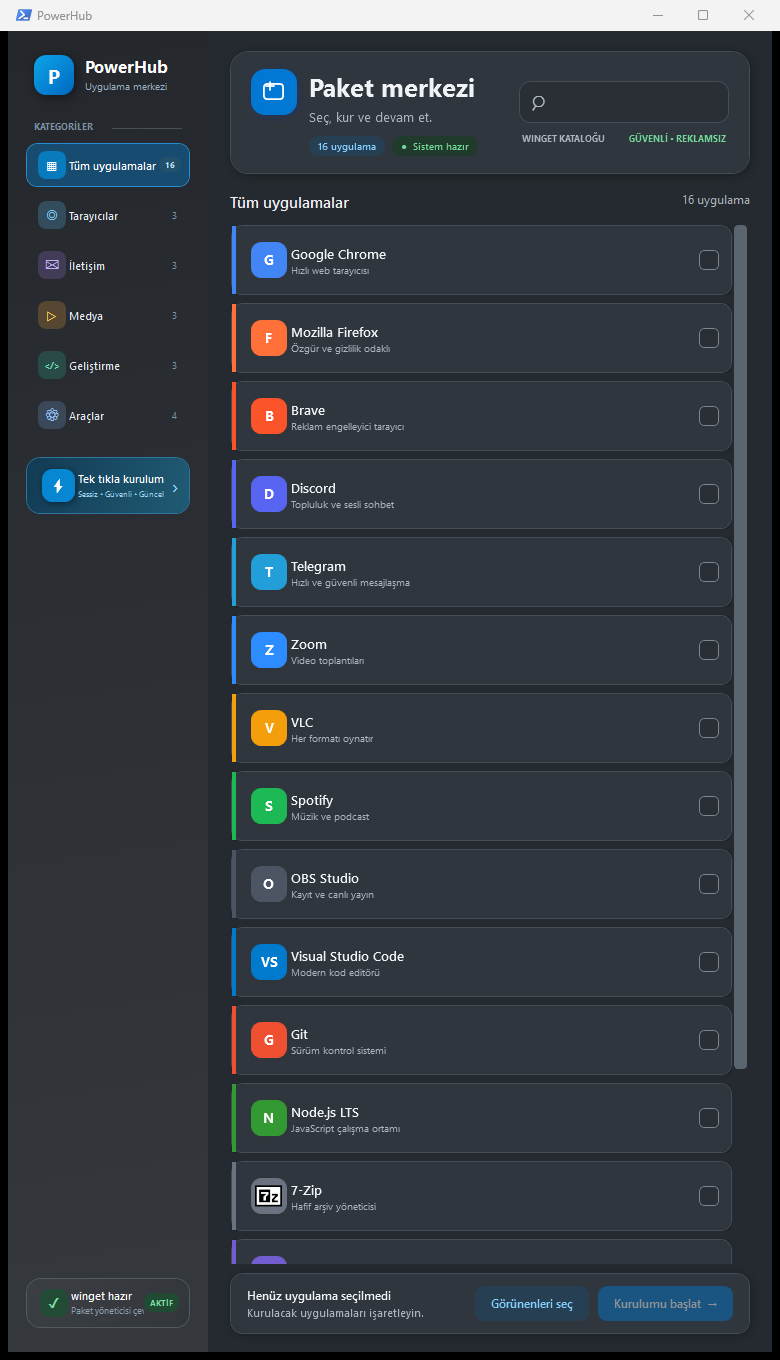
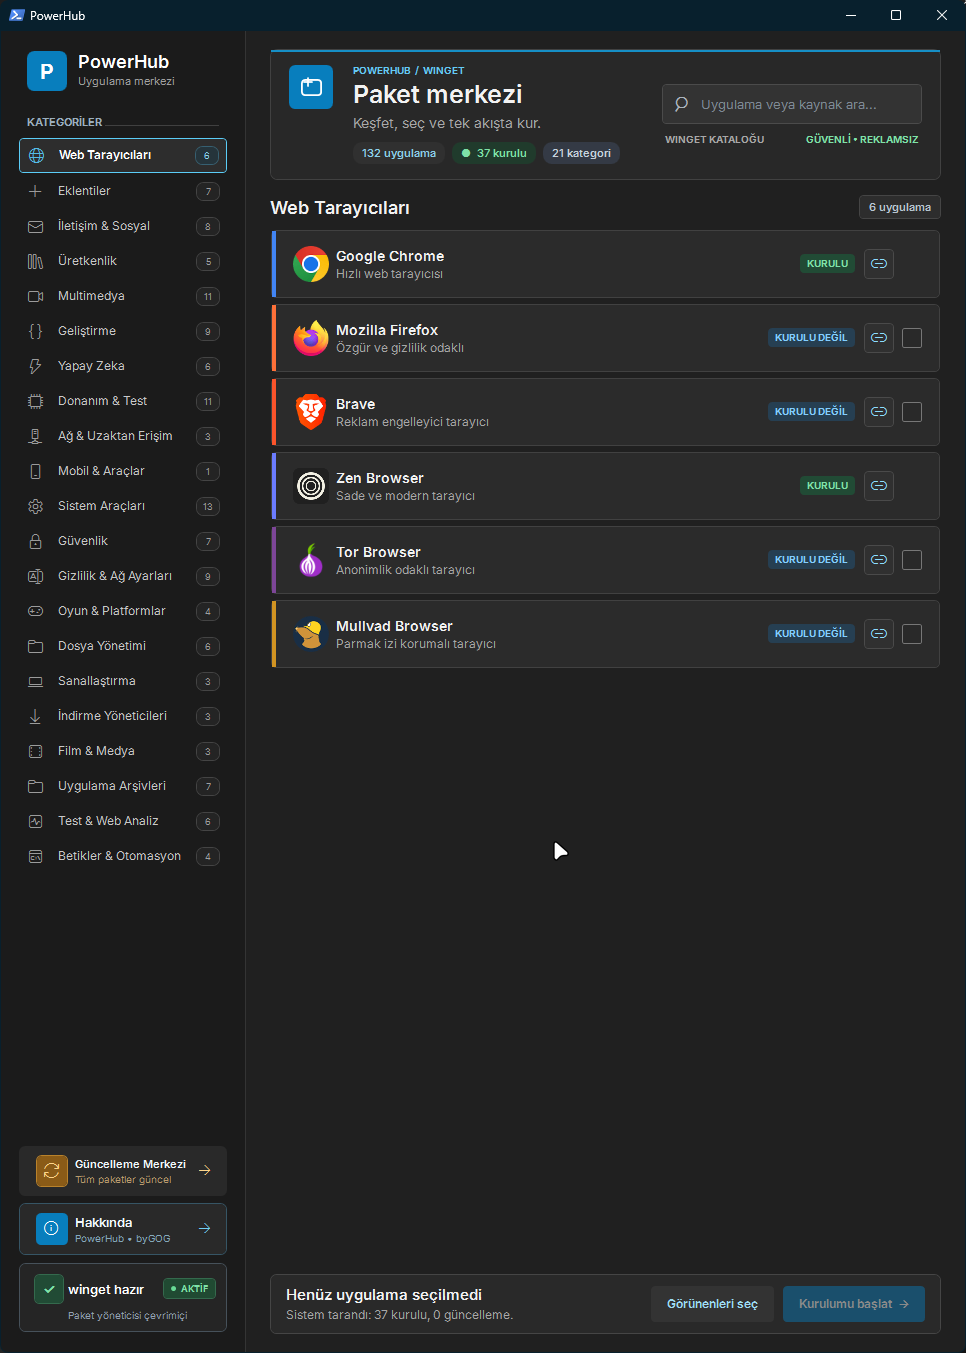
Modernize bilingual project README

diff --git a/README.md b/README.md
@@ -1,103 +1,259 @@
+<div align="center">
+
 # PowerHub
 
-[Türkçe](#türkçe) · [English](#english)
+**Windows uygulamalarını keşfet, denetle, toplu kur ve güncel tut.**
 
-<p align="center">
-  <img src="assets/powerhub-preview.png" alt="PowerHub application preview" width="100%">
-</p>
+[![Windows](https://img.shields.io/badge/Windows-10%20%7C%2011-0078D4?logo=windows&logoColor=white)](https://www.microsoft.com/windows)
+[![PowerShell](https://img.shields.io/badge/PowerShell-5.1%20%7C%207-5391FE?logo=powershell&logoColor=white)](https://learn.microsoft.com/powershell/)
+[![WinGet](https://img.shields.io/badge/WinGet-powered-00A4EF)](https://learn.microsoft.com/windows/package-manager/winget/)
+[![Last commit](https://img.shields.io/github/last-commit/byGOG/PowerHub?color=18A7E0)](https://github.com/byGOG/PowerHub/commits/main)
+[![Repo size](https://img.shields.io/github/repo-size/byGOG/PowerHub?color=765DE8)](https://github.com/byGOG/PowerHub)
+
+[Türkçe](#türkçe) · [English](#english) · [Web sitesi](https://bygog.github.io/) · [Sorun bildir](https://github.com/byGOG/PowerHub/issues)
+
+</div>
+
+![PowerHub uygulama önizlemesi](assets/powerhub-preview.png)
+
+---
 
 ## Türkçe
 
-PowerHub, Windows uygulamalarını seçip `winget` üzerinden toplu ve sessiz biçimde kurmak için hazırlanmış modern bir PowerShell/WPF arayüzüdür.
+PowerHub, Windows uygulamalarını tek merkezden yönetmek için geliştirilmiş açık kaynak bir PowerShell/WPF arayüzüdür. WinGet kataloğunu modern bir masaüstü deneyimiyle birleştirir; uygulama keşfi, kurulum, sistem taraması ve güncelleme işlemlerini sadeleştirir.
 
-- 21 kategoride 132 güvenli uygulama ve web kaynağı
-- Fluent 2 esintili katmanlı koyu arayüz, vektör ikonlar ve erişilebilir kontroller
-- Tüm uygulamalar için önbelleğe alınan marka logoları
-- Canlı arama, kategori filtreleme, kaynak rozetleri ve kartın tamamından seçim
-- WEB kaynaklarında doğrudan site açma; web kartları kurulum seçimine dahil edilmez
-- Kurulabilir uygulama kartlarında seçimi değiştirmeden açılan resmî site düğmesi
-- Klavye kısayolları: `Ctrl+F` ara, `Ctrl+A` görünenleri seç, `Esc` temizle, `Enter` kurulumu başlat
-- Canlı terminal günlükleri ve kurulum ilerlemesi
-- Winget eksikse durum kartından Microsoft Store gerektirmeyen otomatik kurulum
-- Windows Sandbox için mimariye uygun WinGet bağımlılıkları ve SHA-256 doğrulaması
-- Winget paketi bulunmayan seçili araçlar için resmî indirme sayfası
+### Hızlı başlangıç
 
-### Hızlı çalıştırma
-
-PowerShell'e aşağıdaki komutu yapıştırın:
+PowerShell'i açın ve şu komutu çalıştırın:
 
 ```powershell
 irm https://bygog.github.io/PowerHub/install.ps1 | iex
 ```
 
-Başlatıcı, güncel `PowerHub.ps1` dosyasını `%LOCALAPPDATA%\PowerHub` klasörüne indirir ve Windows PowerShell'i STA modunda kullanarak arayüzü açar. Her çalıştırmada en güncel sürüm alınır.
+Başlatıcı en güncel `PowerHub.ps1` dosyasını `%LOCALAPPDATA%\PowerHub` dizinine indirir ve uygulamayı STA modunda açar. Sisteminizde WinGet yoksa PowerHub durum kartı üzerinden Microsoft Store gerektirmeyen kurulumu başlatabilir.
+
+> [!IMPORTANT]
+> İnternetten indirilen betikleri çalıştırmadan önce incelemek iyi bir güvenlik alışkanlığıdır. Aşağıdaki [Güvenlik](#güvenlik) bölümüne bakın.
+
+### Öne çıkanlar
+
+| Alan | PowerHub ne sunuyor? |
+| --- | --- |
+| **Modern arayüz** | Windows 11 ve Fluent tasarım diline uyumlu, net ve erişilebilir koyu WPF arayüzü |
+| **Uygulama kataloğu** | 21 kategoride 132 uygulama ve güvenilir web kaynağı |
+| **Akıllı sistem taraması** | Kurulu uygulamaları ve bekleyen WinGet güncellemelerini arka planda denetleme |
+| **Güncelleme Merkezi** | Sürüm karşılaştırması, tekli veya toplu seçim ve canlı güncelleme ilerlemesi |
+| **Toplu kurulum** | Seçilen paketleri sessiz ve sıralı biçimde kurma; sonuçları terminalde izleme |
+| **Resmî kaynaklar** | Uygulama kartından resmî siteye doğrudan erişim; web kaynaklarını kurulumdan ayırma |
+| **Sandbox desteği** | Boş Windows Sandbox ortamında WinGet ve gerekli bağımlılıkları hazırlama |
+| **Marka logoları** | Önbelleğe alınan uygulama logoları ve ağ sorunu durumunda güvenli yedek görünüm |
+
+### Nasıl çalışır?
+
+1. PowerHub açılışta WinGet durumunu ve kurulu paketleri denetler.
+2. Arama veya kategori menüsüyle istediğiniz uygulamaya odaklanırsınız.
+3. Uygulamaları seçer, resmî sitelerini açar ya da toplu kurulumu başlatırsınız.
+4. Güncelleme Merkezi, mevcut ve yeni sürümleri karşılaştırarak seçili paketleri yükseltir.
+5. Tüm komutlar ve sonuçlar görünür terminal günlüğüne yazılır.
+
+### Klavye kısayolları
+
+| Kısayol | İşlev |
+| --- | --- |
+| <kbd>Ctrl</kbd> + <kbd>F</kbd> | Arama alanına odaklan |
+| <kbd>Ctrl</kbd> + <kbd>A</kbd> | Görünen kurulabilir uygulamaları seç / seçimi kaldır |
+| <kbd>Enter</kbd> | Seçilen uygulamaların kurulumunu başlat |
+| <kbd>Esc</kbd> | Aramayı, seçimi veya açık pencereyi temizle |
+
+### Kurulum seçenekleri
+
+#### Tek komutla
+
+```powershell
+irm https://bygog.github.io/PowerHub/install.ps1 | iex
+```
+
+#### Önce inceleyerek
+
+```powershell
+$installer = irm https://bygog.github.io/PowerHub/install.ps1
+$installer
+```
+
+İçeriği inceledikten sonra:
+
+```powershell
+$installer | iex
+```
+
+#### Elle çalıştırma
+
+```powershell
+git clone https://github.com/byGOG/PowerHub.git
+cd PowerHub
+powershell -NoProfile -ExecutionPolicy Bypass -File .\PowerHub.ps1
+```
 
 ### Gereksinimler
 
 - Windows 10 veya Windows 11
 - Windows PowerShell 5.1 ya da PowerShell 7
-- Microsoft App Installer ile gelen `winget`
 - İnternet bağlantısı
+- Paket kurulumları için yönetici izni gerekebilir
+- WinGet önerilir; eksikse PowerHub içinden Store bağımsız kurulum yapılabilir
 
 ### Güvenlik
 
-İnternetten alınan bir betiği çalıştırmadan önce içeriğini incelemek için:
+- Kurulum komutları paket kimliğini tam eşleştiren `--exact` seçeneğini kullanır.
+- Paket ve kaynak sözleşmeleri WinGet üzerinden açık biçimde kabul edilir.
+- WinGet bağımlılıkları resmî Microsoft/GitHub kaynaklarından alınır ve desteklenen dosyalarda SHA-256 doğrulaması uygulanır.
+- PowerHub kalıcı Execution Policy değişikliği yapmaz; başlatıcı yalnızca kendi süreç kapsamını kullanır.
+- Kurulum günlükleri terminalde görünür; başarısız paketler ayrıca raporlanır.
 
-```powershell
-irm https://bygog.github.io/PowerHub/install.ps1
-```
-
-Ana uygulama dosyasını doğrudan görüntülemek için:
+Ana uygulama dosyasını doğrudan inceleyebilirsiniz:
 
 ```text
 https://bygog.github.io/PowerHub/PowerHub.ps1
 ```
+
+### Proje yapısı
+
+```text
+PowerHub/
+├─ PowerHub.ps1          # WPF arayüzü, katalog ve kurulum motoru
+├─ install.ps1           # Hafif çevrimiçi başlatıcı
+├─ logos.json            # Uygulama logo kataloğu
+├─ assets/               # README görselleri
+└─ .nojekyll             # GitHub Pages yapılandırması
+```
+
+### Katkıda bulunma
+
+Hata raporu, uygulama önerisi veya geliştirme fikri için [issue açabilirsiniz](https://github.com/byGOG/PowerHub/issues). Değişiklik göndermeden önce mevcut işlevleri koruduğunuzdan ve PowerShell 5.1 uyumluluğunu bozmadığınızdan emin olun.
 
 ---
 
 ## English
 
-PowerHub is a modern PowerShell/WPF interface for selecting and silently installing multiple Windows applications through `winget`.
-
-- 132 safe applications and web resources across 21 categories
-- Fluent 2-inspired layered dark interface, vector icons, and accessible controls
-- Cached brand logos for every application
-- Live search, category filtering, source badges, and full-card selection
-- Direct site launching for WEB resources; web cards are excluded from installation selection
-- Official website button on installable app cards without changing selection
-- Keyboard shortcuts: `Ctrl+F` search, `Ctrl+A` select visible, `Esc` clear, `Enter` install
-- Live terminal logs and installation progress
-- Store-independent App Installer setup from the status card when winget is missing
-- Architecture-aware WinGet dependencies and SHA-256 verification for Windows Sandbox
-- Official download pages for selected tools not packaged by winget
+PowerHub is an open-source PowerShell/WPF interface for managing Windows applications from one place. It combines the WinGet catalog with a modern desktop experience and streamlines discovery, installation, system scanning, and package updates.
 
 ### Quick start
 
-Paste the following command into PowerShell:
+Open PowerShell and run:
 
 ```powershell
 irm https://bygog.github.io/PowerHub/install.ps1 | iex
 ```
 
-The bootstrapper downloads the latest `PowerHub.ps1` to `%LOCALAPPDATA%\PowerHub` and launches the interface with Windows PowerShell in STA mode. It retrieves the latest version on every run.
+The bootstrapper downloads the latest `PowerHub.ps1` to `%LOCALAPPDATA%\PowerHub` and launches it in STA mode. If WinGet is unavailable, PowerHub can install its Store-independent dependencies from the status card.
+
+> [!IMPORTANT]
+> Review remote scripts before executing them. See the [Security](#security) section for an inspection-first workflow.
+
+### Highlights
+
+| Area | What PowerHub provides |
+| --- | --- |
+| **Modern interface** | A clear, accessible dark WPF interface inspired by Windows 11 and Fluent design |
+| **Application catalog** | 132 applications and trusted web resources across 21 categories |
+| **Smart system scan** | Background detection of installed applications and pending WinGet updates |
+| **Update Center** | Version comparison, individual or bulk selection, and live update progress |
+| **Bulk installation** | Silent sequential installation with visible terminal results |
+| **Official sources** | Direct access to official sites while keeping web resources out of install queues |
+| **Sandbox support** | Store-independent WinGet and dependency setup for clean Windows Sandbox sessions |
+| **Brand assets** | Cached application logos with a safe fallback when the network is unavailable |
+
+### Workflow
+
+1. PowerHub checks WinGet, installed packages, and available updates on startup.
+2. Search or category navigation focuses the catalog on what you need.
+3. Select applications, open official websites, or start a bulk installation.
+4. Update Center compares installed and available versions and upgrades selected packages.
+5. Commands and results remain visible in the terminal log.
+
+### Keyboard shortcuts
+
+| Shortcut | Action |
+| --- | --- |
+| <kbd>Ctrl</kbd> + <kbd>F</kbd> | Focus search |
+| <kbd>Ctrl</kbd> + <kbd>A</kbd> | Toggle all visible installable applications |
+| <kbd>Enter</kbd> | Install selected applications |
+| <kbd>Esc</kbd> | Clear search, selection, or the open dialog |
+
+### Installation options
+
+#### One command
+
+```powershell
+irm https://bygog.github.io/PowerHub/install.ps1 | iex
+```
+
+#### Inspect first
+
+```powershell
+$installer = irm https://bygog.github.io/PowerHub/install.ps1
+$installer
+```
+
+After reviewing the content:
+
+```powershell
+$installer | iex
+```
+
+#### Manual launch
+
+```powershell
+git clone https://github.com/byGOG/PowerHub.git
+cd PowerHub
+powershell -NoProfile -ExecutionPolicy Bypass -File .\PowerHub.ps1
+```
 
 ### Requirements
 
 - Windows 10 or Windows 11
 - Windows PowerShell 5.1 or PowerShell 7
-- `winget`, included with Microsoft App Installer
-- An internet connection
+- Internet access
+- Administrator approval may be required for package installation
+- WinGet is recommended; PowerHub can provision it without Microsoft Store when missing
 
 ### Security
 
-To inspect the remote bootstrapper before running it:
+- Installation commands use `--exact` package matching.
+- Package and source agreements are explicitly handled through WinGet.
+- WinGet dependencies come from official Microsoft/GitHub sources, with SHA-256 verification where supported.
+- PowerHub does not make a permanent Execution Policy change; the launcher uses process scope only.
+- Terminal logs remain visible and failed packages are reported separately.
 
-```powershell
-irm https://bygog.github.io/PowerHub/install.ps1
-```
-
-To view the main application script directly:
+Inspect the main application directly:
 
 ```text
 https://bygog.github.io/PowerHub/PowerHub.ps1
 ```
+
+### Project structure
+
+```text
+PowerHub/
+├─ PowerHub.ps1          # WPF interface, catalog, and installation engine
+├─ install.ps1           # Lightweight online bootstrapper
+├─ logos.json            # Application logo catalog
+├─ assets/               # README media
+└─ .nojekyll             # GitHub Pages configuration
+```
+
+### Contributing
+
+Use [GitHub Issues](https://github.com/byGOG/PowerHub/issues) for bug reports, application requests, and improvement ideas. Please preserve existing behavior and Windows PowerShell 5.1 compatibility when proposing changes.
+
+---
+
+<div align="center">
+
+PowerHub is maintained by [byGOG](https://bygog.github.io/).
+
+*Sordum.net topluluğunun paylaşım kültürü ve kullanıcı odaklı vizyonundan ilham alınarak hazırlandı.*
+
+[Sordum.net](https://www.sordum.net/) · [GitHub](https://github.com/byGOG/PowerHub) · [Website](https://bygog.github.io/)
+
+</div>